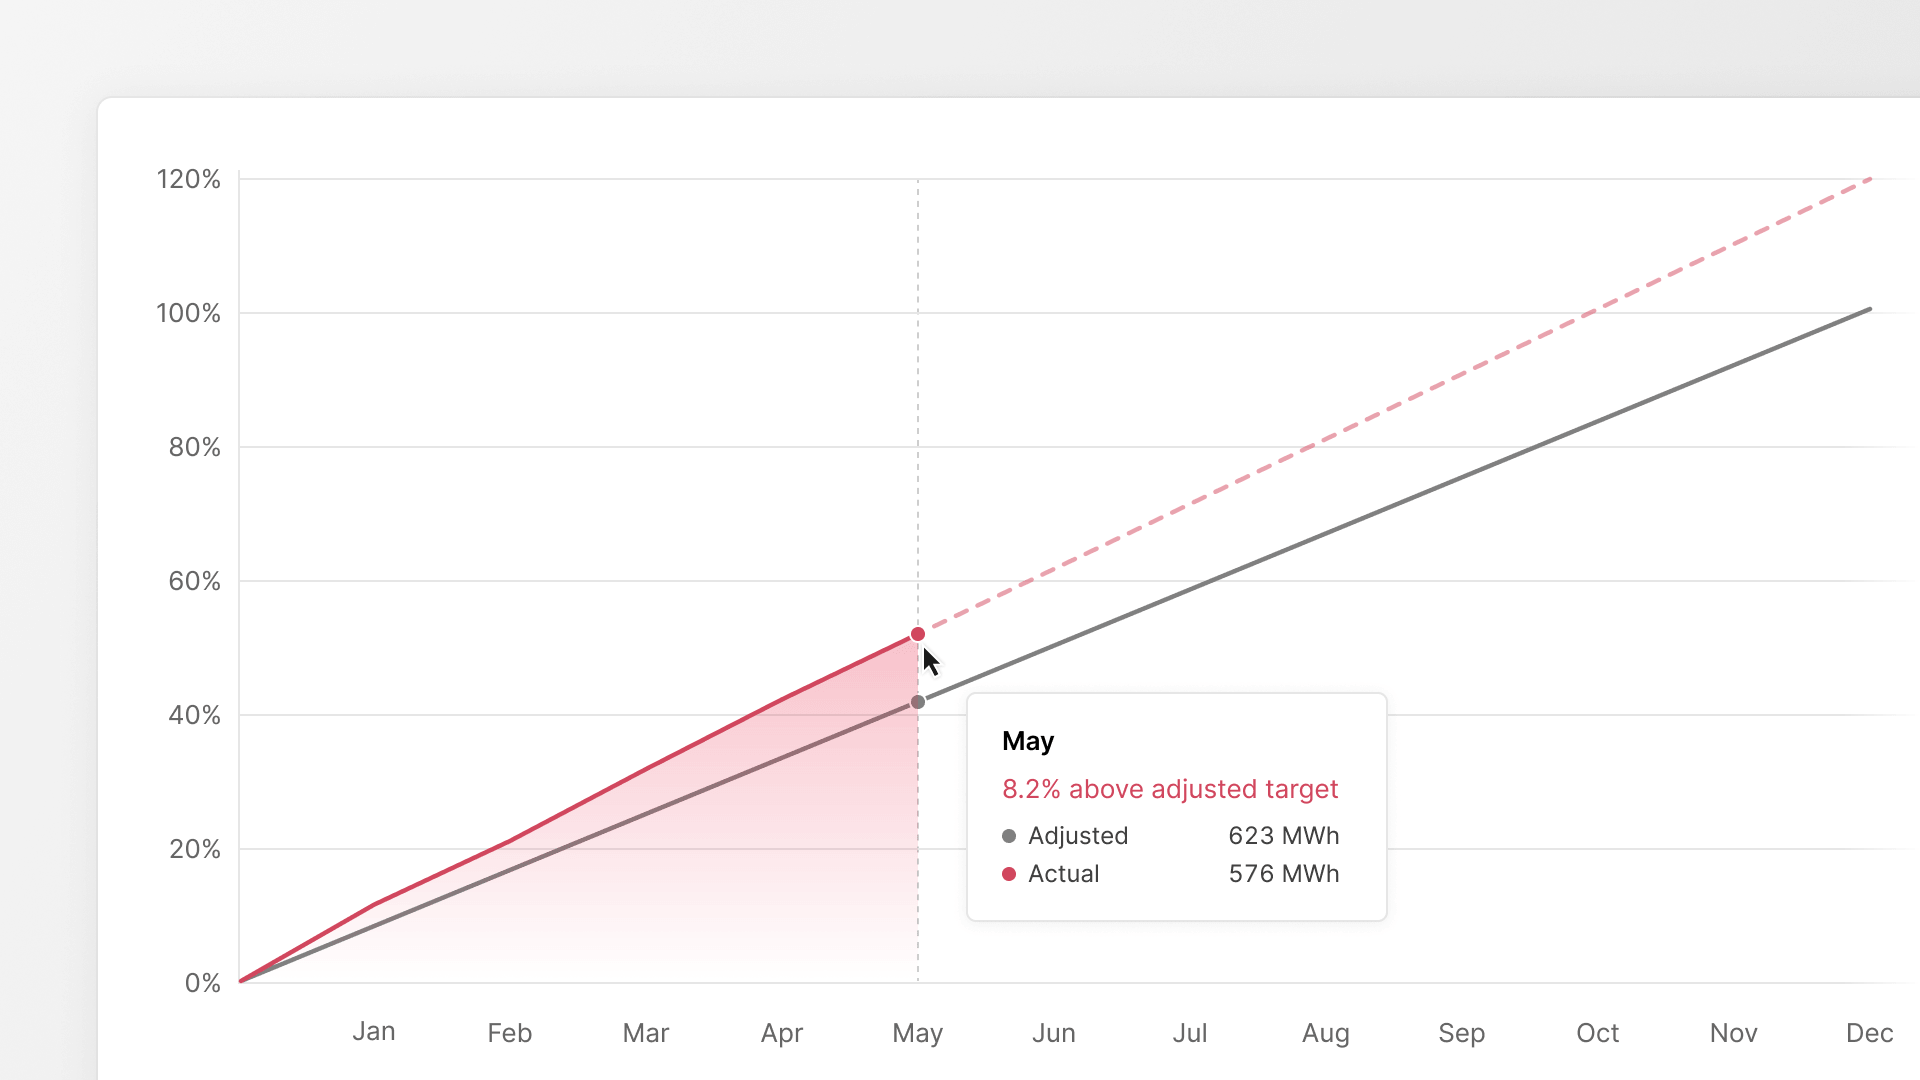
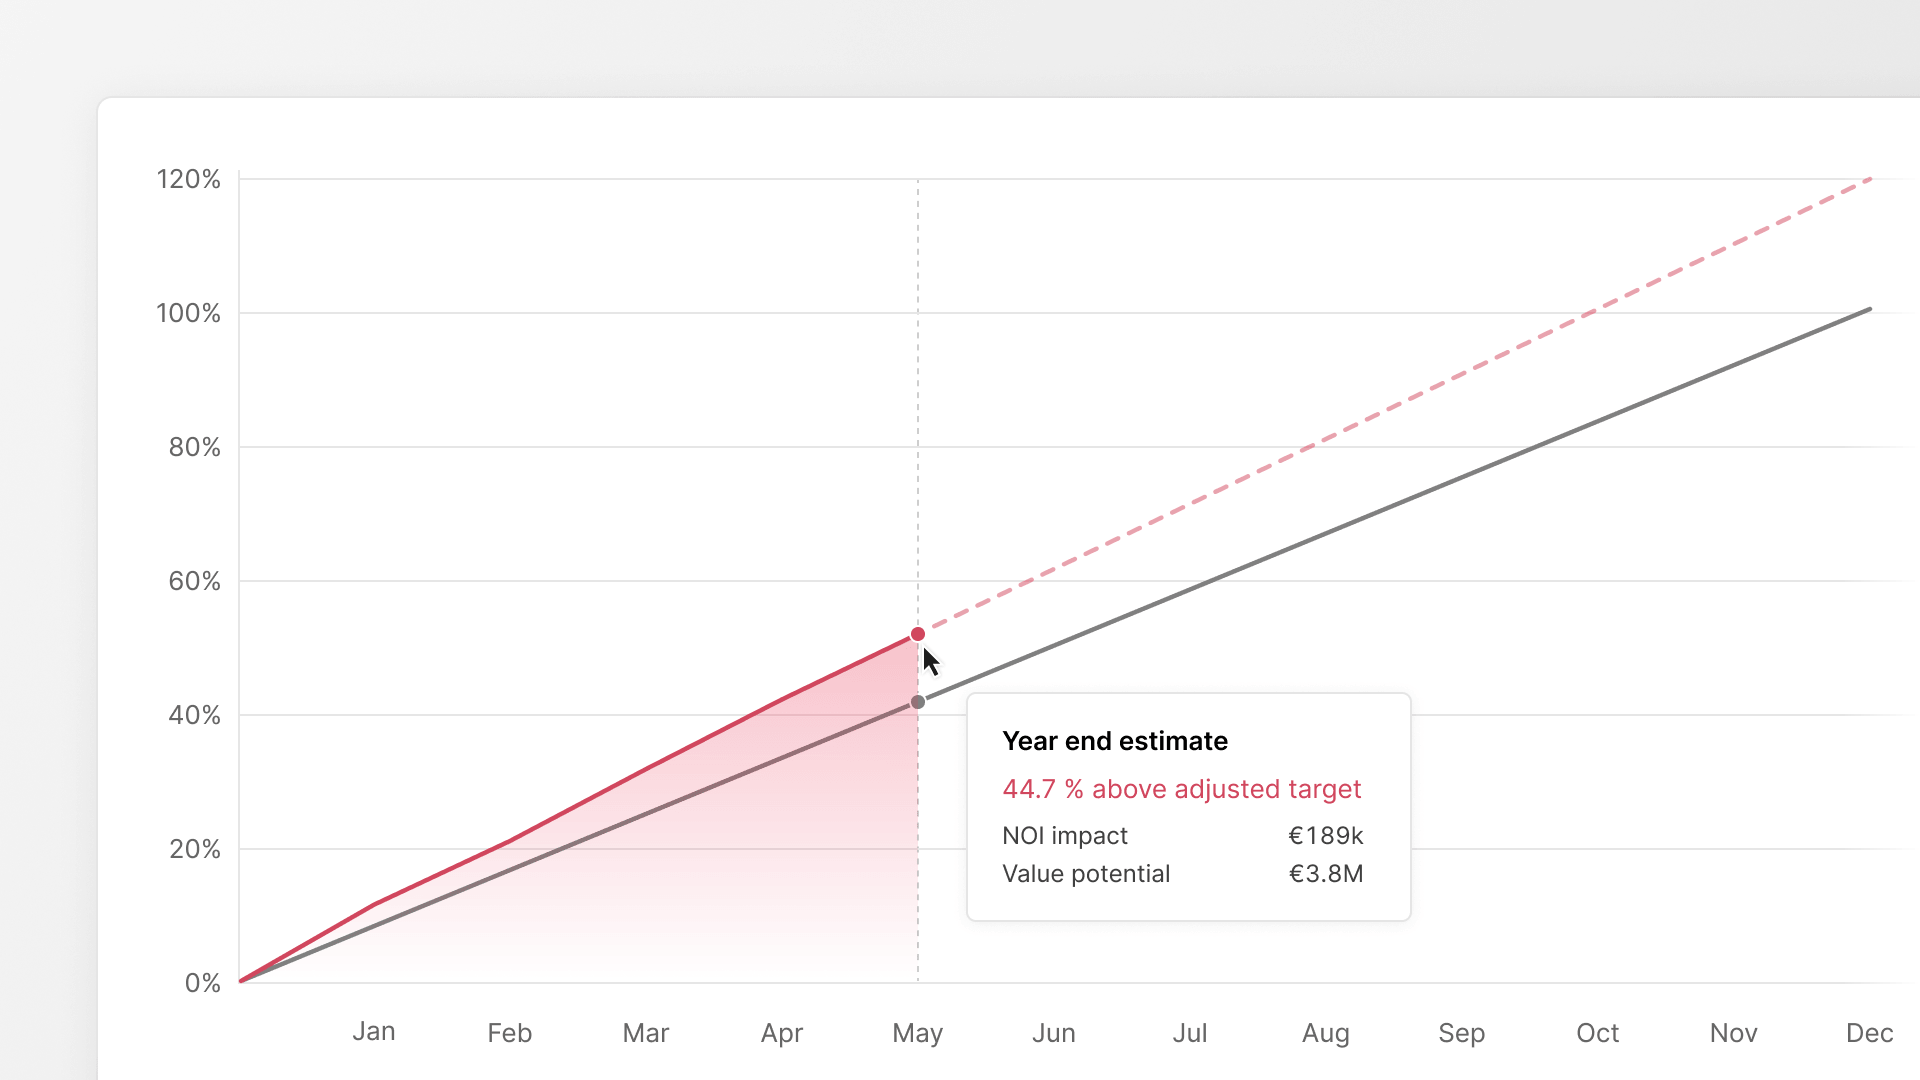
Update image

Changed region(s): [[0.5, 0.6722, 0.7188, 0.825]]

diff --git a/src/content/news/the-value-the-market-cant-touch.md b/src/content/news/the-value-the-market-cant-touch.md
@@ -16,7 +16,7 @@ about:
     years watching go unmeasured into something owners can finally see and
     capture.
   image: src/assets/tomi.jpg
-cover: images/perf-chart (1).png
+cover: images/perf-chart.png
 coverAlt: Chart showing the Performance Curve
 draft: false
 ---
@@ -42,7 +42,7 @@ AI changes both sides of this equation, but not equally. Yes, AI will help you r
 
 Finding the hidden value is the hard part. It takes deep technical knowledge of how buildings actually run, and AI capable of turning raw signals into something you can act on. That is the work Clouder does. 
 
-![](<images/perf-chart (1)-1.png>)
+![Chart showing the Performance Curve](images/perf-chart.png)
 
 Seeing that value, judging how far an asset is from where it should be, and watching the gap close, should be effortless. That's why we built the Performance Curve: a model that answers what good actually looks like for each asset, and what it's costing you not to get there. Three things it gives an owner:
 